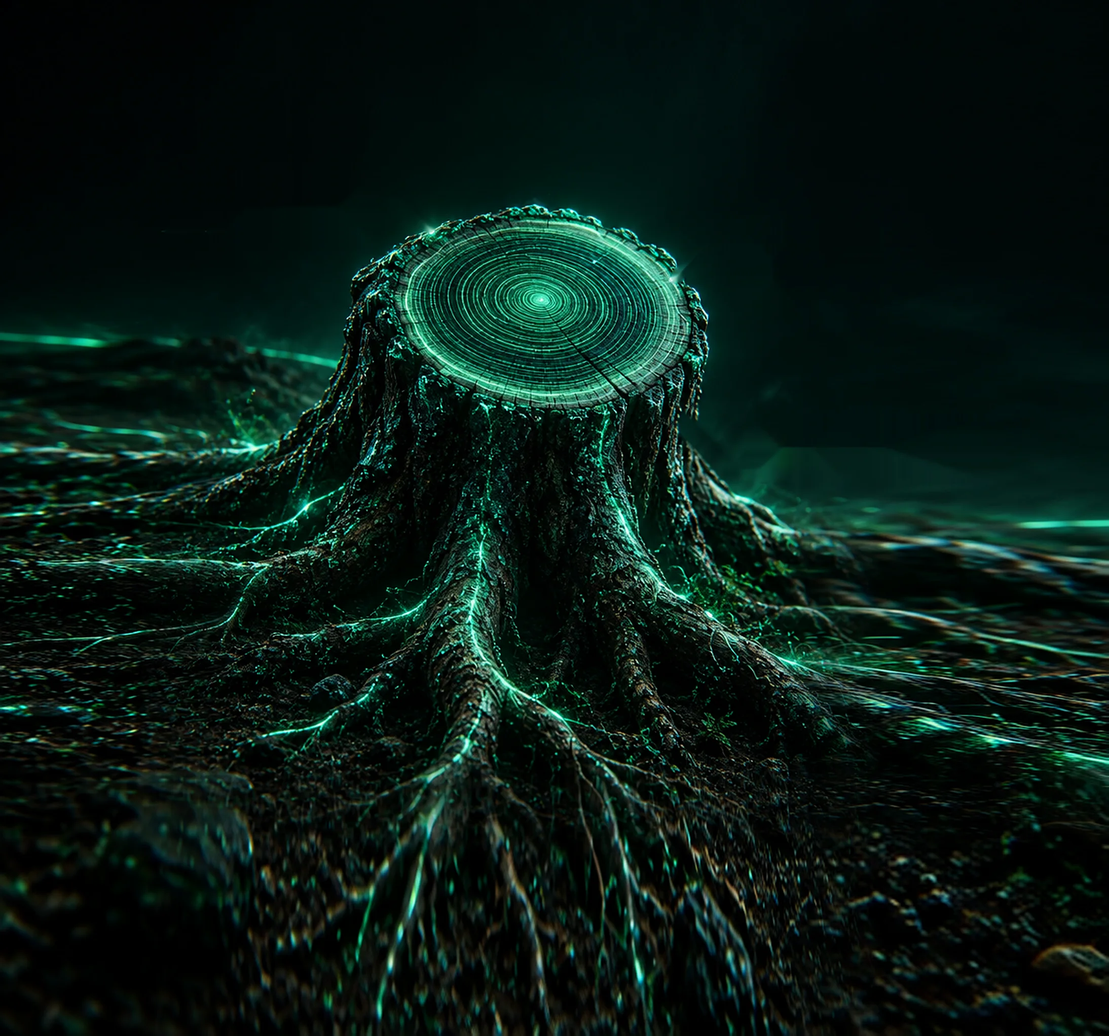
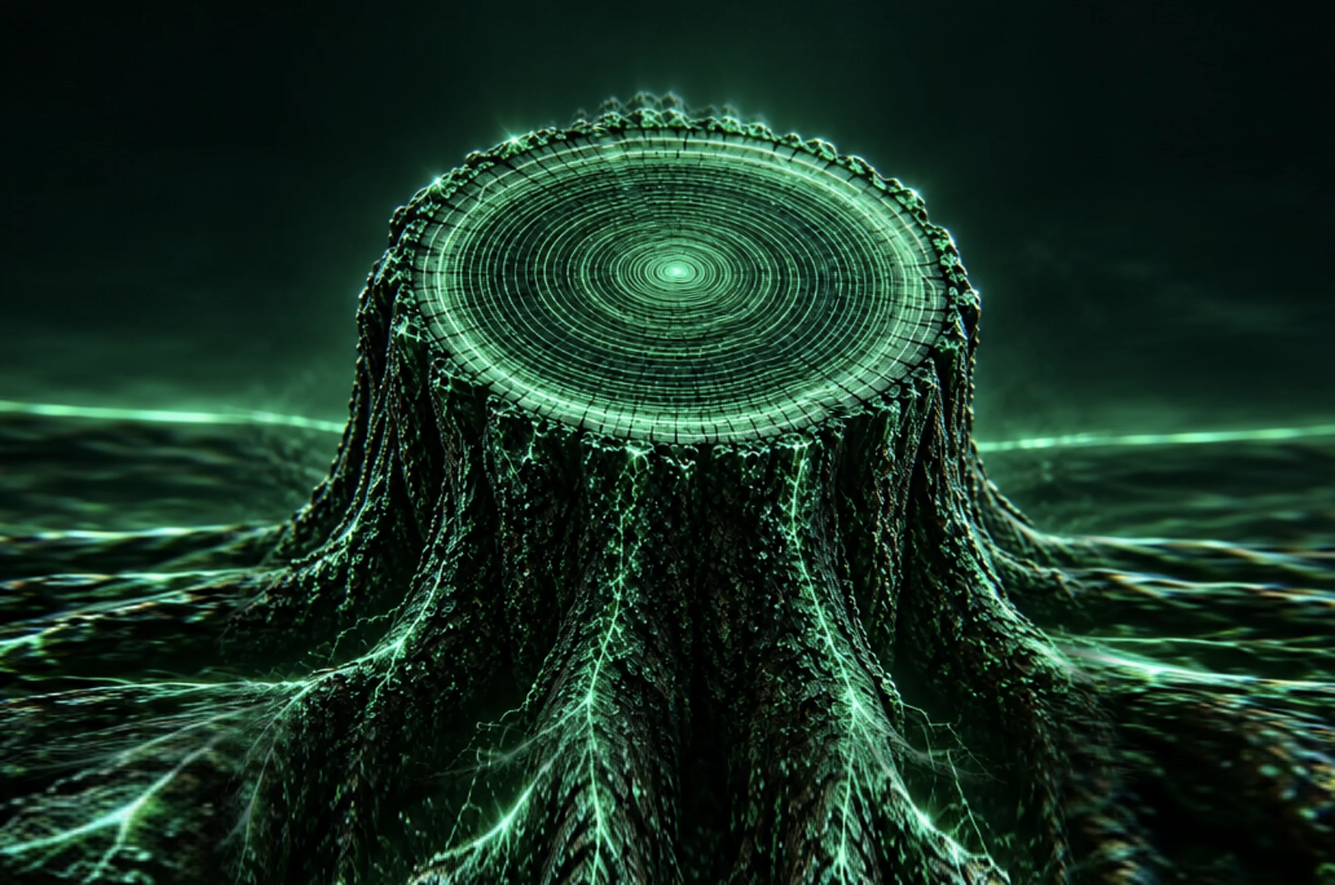
Tronco com a nova imagem de referência
- Nova foto do tronco, sem as rachaduras do corte e com as bordas estendidas
- O corte da própria foto vira a madeira do anel (sai o recorte antigo)
- Geometria recalibrada: miolo e borda da madeira alinhados com a foto

Claude-Session: https://claude.ai/code/session_015MGDzoijdUNNzky2MRdEKm

diff --git a/src/lib/geometria.js b/src/lib/geometria.js
@@ -44,7 +44,8 @@ export function raiosDoAnel(indice, total) {
 
 // Num tronco real o centro não fica no meio: cada anel cresce um pouco mais
 // para um lado. O centro de cada círculo se desloca conforme o raio.
-const EXCENTRICIDADE = { x: 0.045, y: -0.028 };
+// Na foto do tronco, o miolo fica um pouco acima do centro da borda (o corte é visto de frente e de cima).
+const EXCENTRICIDADE = { x: 0.009, y: 0.085 };
 export function centroPara(raio) {
   return { x: CENTRO.x + raio * EXCENTRICIDADE.x, y: CENTRO.y + raio * EXCENTRICIDADE.y };
 }
@@ -176,21 +177,22 @@ export const ZOOM = 1.52;
 export const ESCALA_X = 0.95 * ZOOM;
 export const ESCALA_Y = 0.56 * ZOOM;
 // O x compensa o leve deslocamento dos anéis para a direita, para o tronco ficar no centro da tela.
-export const CENTRO_TELA = { x: 778, y: 392 };
+export const CENTRO_TELA = { x: 778, y: 366 };
 
 // Imagem do tronco com raízes (public/tronco.webp, 1632 x 1632), posicionada para que
 // o corte da imagem fique sob o corte interativo. O corte interativo é maior que o da foto,
 // para os anéis e os casos ficarem fáceis de ler e tocar.
-// A foto (816 px) foi estendida nas bordas para as raízes chegarem até a beira da tela:
-// 150 px à esquerda, 250 à direita, 120 em cima e 200 embaixo (1216 x 1136 no total).
-// O ponto (445, 217) da foto original fica no centro do corte; ela é esticada 1,72 x 1,25.
-// esticarX acompanha a largura do anel interativo, para a borda do corte nunca sobrar fora do tronco.
-const FOTO = { esticarX: 1.96, esticarY: 1.3, centro: { x: 445 + 150, y: 217 + 120 }, largura: 1216, altura: 1136 };
+// Foto do tronco (public/tronco.webp): imagem de 1126 x 912 px estendida nas bordas (260 px dos lados,
+// 60 em cima, 120 embaixo) até 1646 x 1092. Nela, o miolo fica em (835, 332) e a borda da madeira
+// tem raios de 328 x 188 px. A foto é esticada para essa borda coincidir com o raio 342 do desenho.
+const FOTO = { largura: 1646, altura: 1092, miolo: { x: 835, y: 332 }, raioX: 328, raioY: 188, raioDesenho: 342 };
+const FOTO_X = (FOTO.raioDesenho * ESCALA_X) / FOTO.raioX;
+const FOTO_Y = (FOTO.raioDesenho * ESCALA_Y) / FOTO.raioY;
 export const IMAGEM_TRONCO = {
-  x: CENTRO_TELA.x - FOTO.centro.x * FOTO.esticarX * ZOOM,
-  y: CENTRO_TELA.y - FOTO.centro.y * FOTO.esticarY * ZOOM,
-  largura: FOTO.largura * FOTO.esticarX * ZOOM,
-  altura: FOTO.altura * FOTO.esticarY * ZOOM,
+  x: CENTRO_TELA.x - FOTO.miolo.x * FOTO_X,
+  y: CENTRO_TELA.y - FOTO.miolo.y * FOTO_Y,
+  largura: FOTO.largura * FOTO_X,
+  altura: FOTO.altura * FOTO_Y,
 };
 export const TRANSFORMACAO_CORTE = `translate(${CENTRO_TELA.x} ${CENTRO_TELA.y}) scale(${ESCALA_X} ${ESCALA_Y}) translate(${-CENTRO.x} ${-CENTRO.y})`;
 export function naTela(p) {

diff --git a/src/components/Tronco.js b/src/components/Tronco.js
@@ -7,17 +7,6 @@ import {
 } from "@/lib/geometria";
 import estilos from "./Tronco.module.css";
 
-// O corte da foto (public/corte.webp) é um recorte de 430 x 240 px da imagem original, com o centro
-// da madeira em (212,5; 114,5) e raios de 162 x 95 px. Aqui ele é esticado para coincidir com a madeira do desenho.
-const RAIO_MADEIRA = RAIO_EXTERNO + 5;
-// O miolo da foto fica exatamente sobre o núcleo desenhado.
-const CENTRO_MADEIRA = centroPara(RAIO_NUCLEO);
-const FOTO_CORTE = {
-  x: CENTRO_MADEIRA.x - 212.5 * (RAIO_MADEIRA / 162),
-  y: CENTRO_MADEIRA.y - 114.5 * (RAIO_MADEIRA / 95),
-  largura: 430 * (RAIO_MADEIRA / 162),
-  altura: 240 * (RAIO_MADEIRA / 95),
-};
 
 // Desenho do tronco. Cada anel é uma gestão; cada ponto é um caso.
 export default function Tronco({ gestoes, casos, posicoes, selecionado, gestaoAtiva, padraoAtivo, relevancia, aoEscolherCaso, aoEscolherGestao, decorativo = false, novo = null, celebrando = null, solucoesJuntas = false, compacto = false }) {
@@ -151,15 +140,8 @@ export default function Tronco({ gestoes, casos, posicoes, selecionado, gestaoAt
       {/* Tronco com raízes: imagem de referência da autora, com o corte coberto pelo desenho interativo */}
       <image href="/tronco.webp" x={IMAGEM_TRONCO.x} y={IMAGEM_TRONCO.y} width={IMAGEM_TRONCO.largura} height={IMAGEM_TRONCO.altura}
         preserveAspectRatio="none" className={estilos.foto} />
-      {/* Sombra sob a borda do corte, para ele assentar no tronco */}
-      <ellipse cx={naTela(centroPara(0)).x} cy={naTela(centroPara(0)).y + 22} rx={372 * ZOOM} ry={214 * ZOOM} fill="url(#sombraCorte)" opacity="0.7" />
-
       {/* Corte do tronco, visto em perspectiva */}
       <g transform={TRANSFORMACAO_CORTE}>
-      {/* Madeira e casca da própria foto, ampliadas na medida dos anéis interativos (sem a rachadura) */}
-      <clipPath id="recorteCorte"><path d={casca} /></clipPath>
-      <image href="/corte.webp" x={FOTO_CORTE.x} y={FOTO_CORTE.y} width={FOTO_CORTE.largura} height={FOTO_CORTE.altura}
-        preserveAspectRatio="none" clipPath="url(#recorteCorte)" className={estilos.foto} />
       {/* Véu escuro sobre a madeira, para os anéis das gestões e os casos se destacarem */}
       <path d={cascaInterna} className={estilos.veuMadeira} />
 

diff --git a/src/components/Tronco.module.css b/src/components/Tronco.module.css
@@ -241,7 +241,7 @@
 .hud .numero { font-family: var(--fonte-titulo); fill: var(--verde); font-size: 20px; letter-spacing: 0; font-weight: 700; }
 
 .foto { pointer-events: none; }
-.veuMadeira { fill: rgba(1, 10, 5, 0.5); stroke: rgba(80, 245, 150, 0.35); stroke-width: 1.2; }
+.veuMadeira { fill: rgba(1, 10, 5, 0.42); stroke: none; }
 
 /* Um caso novo nasce no anel: o ponto cresce e duas ondas se espalham */
 .casoNasceu .ponto { animation: nascer 1.2s cubic-bezier(0.2, 0.9, 0.3, 1.4) both; }
